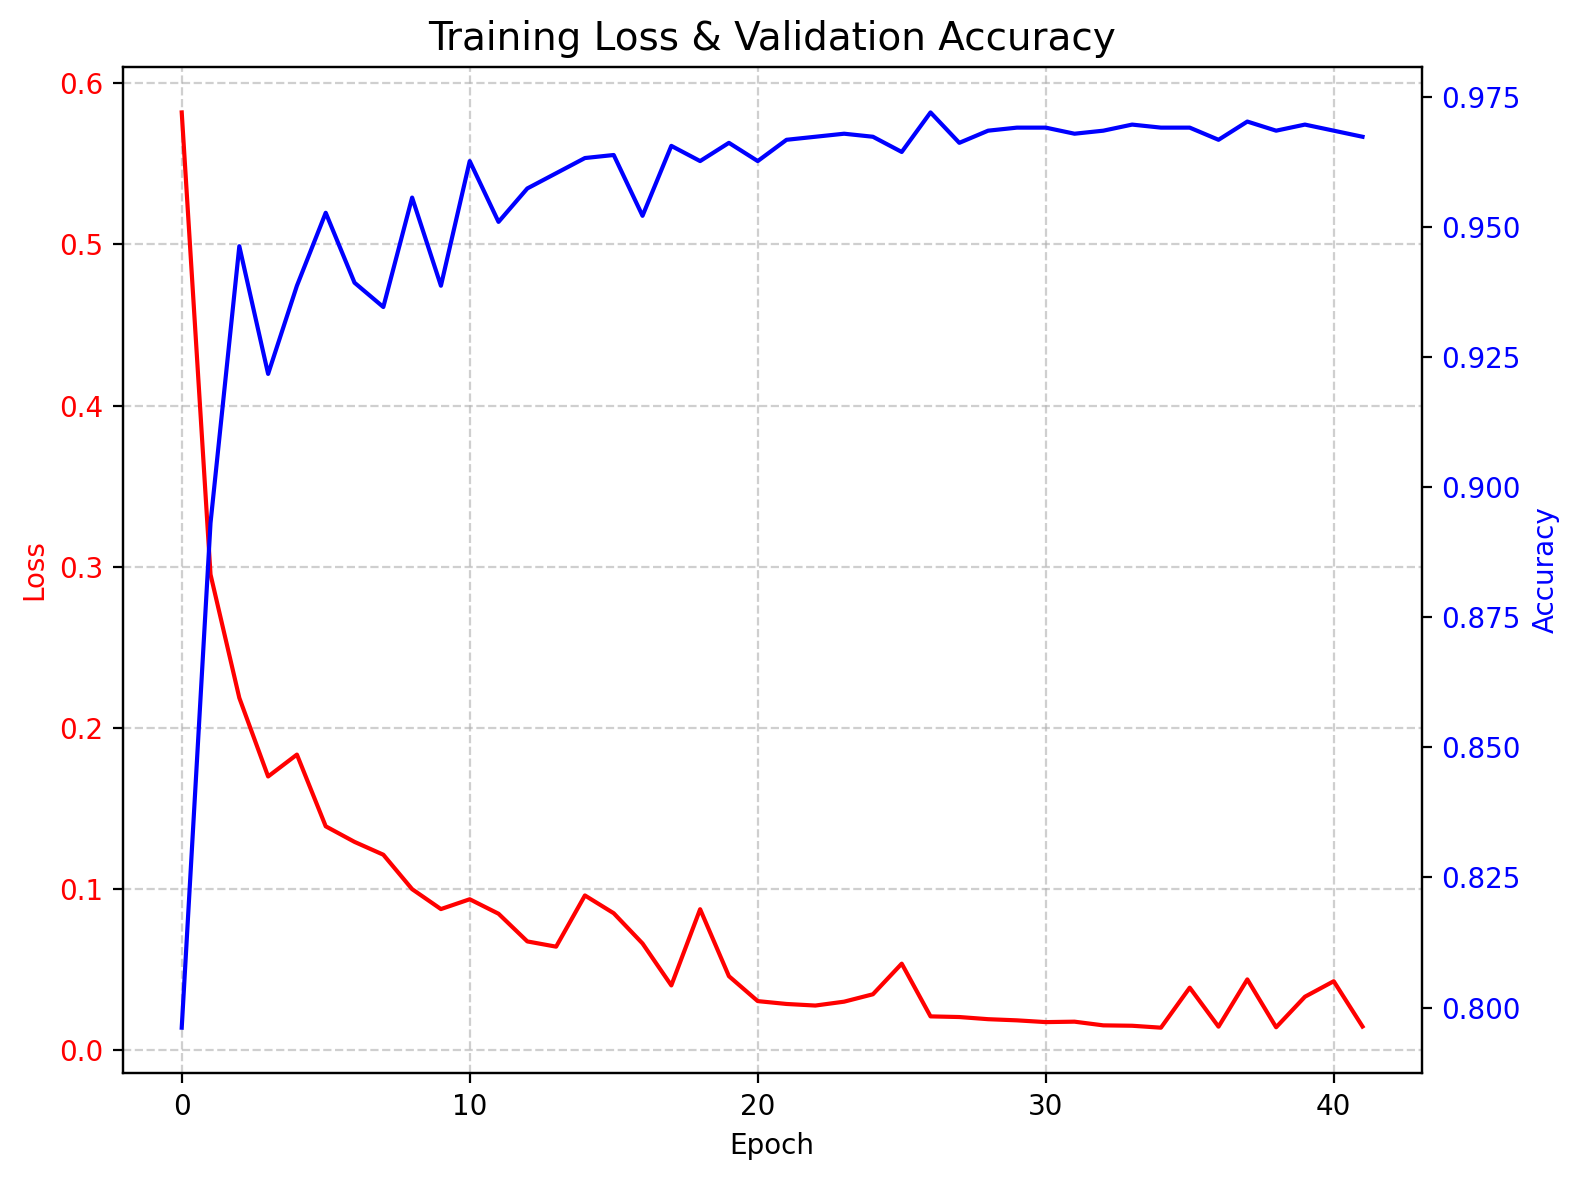
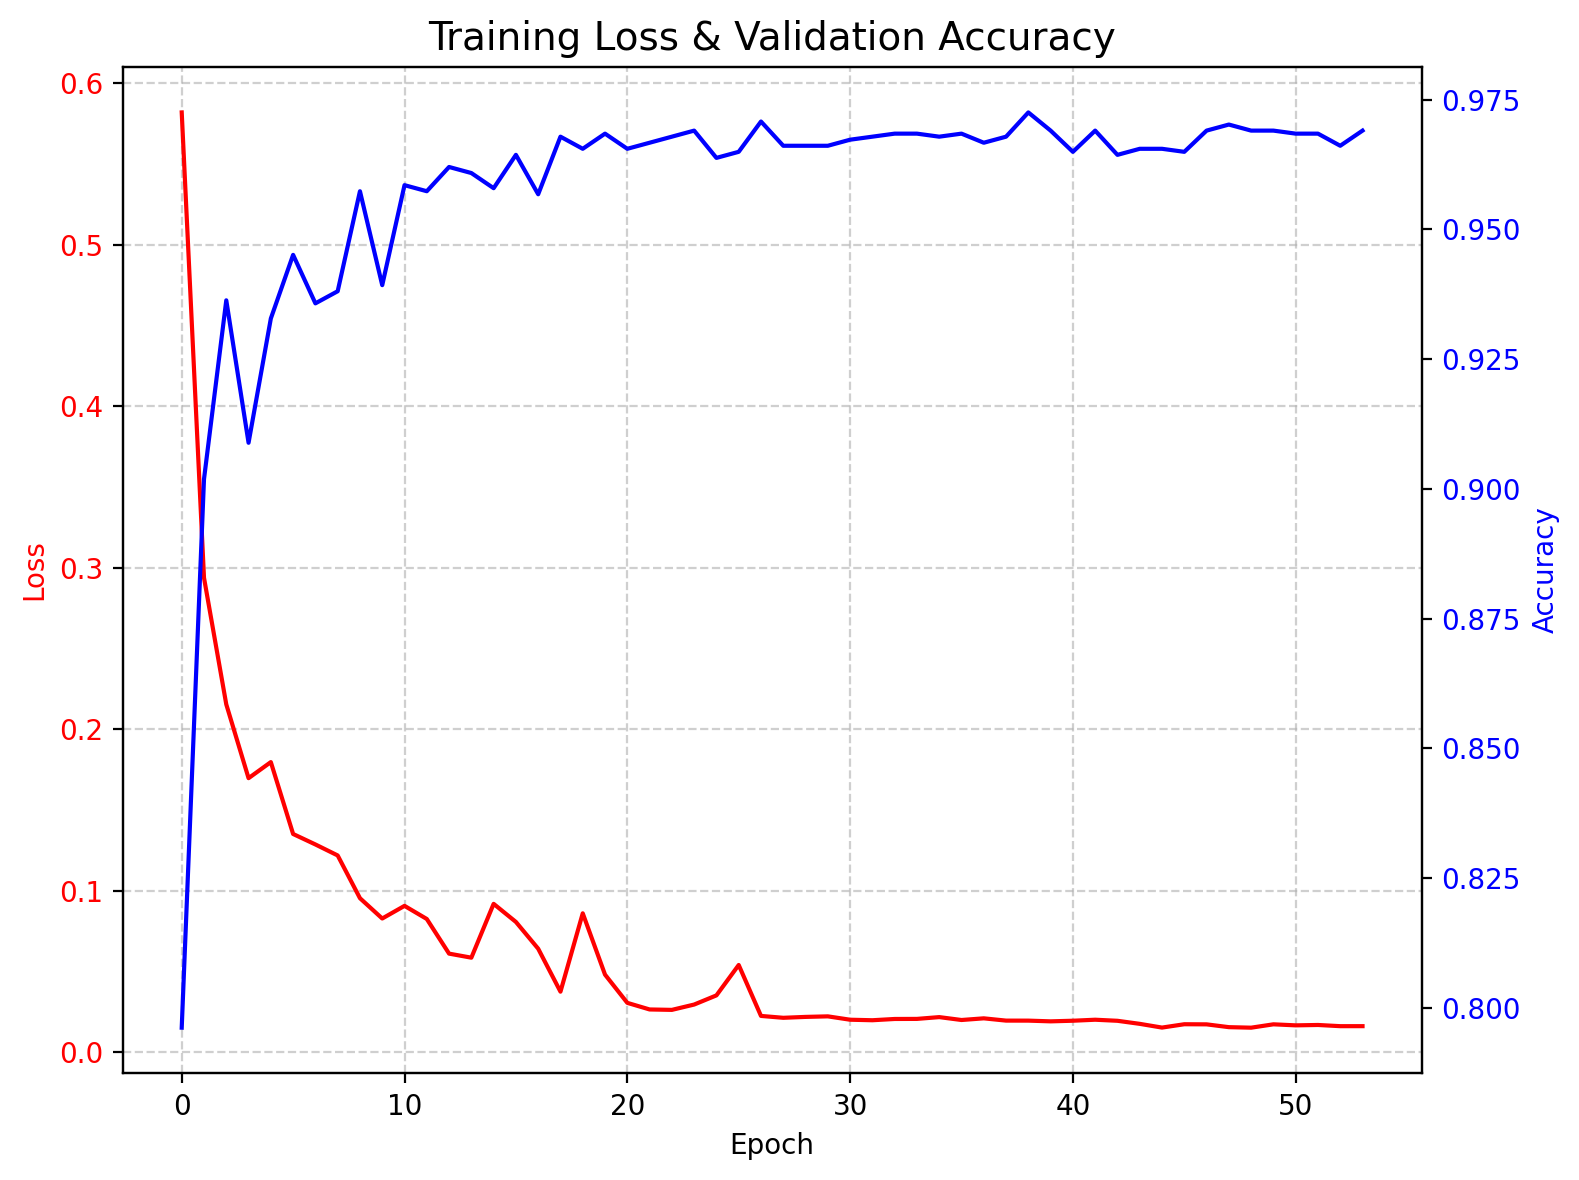
refactor: Improve project structure and pathing for robustness
This commit focuses on enhancing code organization and reliability:
- Implements strict modularity by separating core logic into dedicated scripts (e.g., , ) to enforce the single responsibility principle.
- Introduces robust path management ( detection) to ensure all outputs (logs, models, figures) are saved correctly, regardless of the execution environment (local or Docker).
- Updates README to reflect the new project structure and include initial analysis of training efficiency improvements.

diff --git a/scripts/models.py b/scripts/models.py
@@ -45,9 +45,19 @@ def get_model(device: torch.device) -> nn.Module:
        to avoid immediate downsampling.
     2. Remove the `maxpool` layer entirely to retain the 28x28 spatial resolution.
     3. Replace the final fully connected layer (`fc`) with one for 8 classes.
-    4. Interpolate and transfer weights from the old `conv1` to the new `conv1`.
+    4. Bicubic interpolation and transfer of pre-trained weights from the old `7x7`
+       kernel to the new `3x3` kernel.
 
-    Args:
+    Args:Arg,Type,Default,Description
+--epochs,int,60,Maximum number of training epochs.
+--batch_size,int,128,Batch size for data loaders.
+--lr,float,0.008,Initial learning rate for the SGD optimizer.
+--seed,int,42,"Random seed for reproducibility (influences PyTorch, NumPy, Python)."
+--mixup_alpha,float,0.002,α parameter for MixUp regularization. Set to 0 to disable MixUp.
+--patience,int,15,Early stopping patience (epochs without validation improvement).
+--momentum,float,0.9,Momentum factor for the SGD optimizer.
+--weight_decay,float,5e-4,Weight decay (L2 penalty) for the optimizer.
+--no_tta,flag,(disabled),Flag to disable Test-Time Augmentation (TTA) during final evaluation.
         device (torch.device): The device (CPU or CUDA) to move the model to.
 
     Returns:

diff --git a/README.md b/README.md
@@ -6,11 +6,9 @@
 
 
 
-**97.52% Test Accuracy • 0.9733 Macro F1 • Single pretrained ResNet-18 • 28×28 images**
+**97.31% Test Accuracy • 0.9704 Macro F1 • Single pretrained ResNet-18 • 28×28 images**
 
 This repository provides a reproducible training pipeline for the BloodMNIST (from MedMNIST v2) using an adapted pretrained ResNet-18 architecture. The goal is to demonstrate solid performance using a minimal configuration that adhere to modern PyTorch best practices.
-
-### Final Results (42 Epochs via Early Stopping, seed 42)
 
 The results reflect the latest successful training run (post-refactoring).
 
@@ -26,9 +24,9 @@ The results reflect the latest successful training run (post-refactoring).
 ### Final Results (60 epochs, seed 42)
 | Metric                  | Value     |
 |-------------------------|-----------|
-| Best Validation Accuracy| **97.20%** |
-| Test Accuracy (with TTA)| **97.52%** |
-| Test Macro F1 (with TTA)| **0.9733** |
+| Best Validation Accuracy| **97.25%** |
+| Test Accuracy (with TTA)| **97.31%** |
+| Test Macro F1 (with TTA)| **0.9704** |
 
 → Confusion matrix, training curves, sample predictions and Excel report are automatically saved.
 
@@ -40,19 +38,13 @@ I wanted to see how far a **single pretrained ResNet-18** could go on the tiny 2
 
 Spoiler: a carefully adapted ResNet-18 performs surprisingly well, even on 28×28 medical images.
 
-### Training Efficiency Analysis
-
-The training achieved peak validation performance at **Epoch 27** ($\text{Val Acc}=0.9720$) but was only terminated by early stopping at **Epoch 42**. This is due to the aggressive nature of the Cosine Annealing scheduler's tail combined with a generous `patience=15`.
-
-**Analysis:** Epochs 28 through 36 (while Cosine Annealing was still active) did not contribute to the final result.
-
-**Future Work:** The next step will focus on optimizing the training efficiency by anticipating the switch to the `ReduceLROnPlateau` scheduler (e.g., changing the switch point from 60% to 50% of max epochs) to reduce idle computation time.
----
-
 ### Key Features & Design Choices (Post-Refactoring)
 
-The code has been cleanly separated into modulare components (`data_handler.py`, `models.py`,
-`trainer.py`, `utils.py`) for enhaced clarity and maintainability.
+- **Modularity and Structure**: Code has been separated into clean, modular components (`scripts/`) to enforce single responsibility principle and decouple execution (`main.py`) from business logic.
+- **Robust Pathing**: Implemented dynamic `PROJECT_ROOT` detection in `utils.py` to ensure all outputs (models, logs, figures) are correctly saved relative to the project root, regardless of where the script is executed (local or Docker container).
+
+---
+
 
 - **ResNet-18 adapted for 28×28**:  
   – Initial 7 x7 convolution replaced with 3 x 3. 
@@ -81,12 +73,14 @@ They may look overkill, but they make the whole training pipeline safe to run un
 ```bash
 bloodmnist/
 │
-├── main.py                   # Main script that initiates training/evaluation
+├── main.py                   # Main execution entry point
 │
-├── data_handler.py           # Handles data download, Dataset, and DataLoader setup
-├── models.py                 # Defines the adapted ResNet-18 model
-├── trainer.py                # Contains the training logic (loop, MixUp, Early Stopping)
-├── utils.py                  # Configuration (Config), Logger, and general utilities
+├── scripts/                  # Core modules (data loading, models, trainer, utils)
+│   ├── data_handler.py       # Handles data download, Dataset, and DataLoader setup
+│   ├── models.py             # Defines the adapted ResNet-18 model
+│   ├── trainer.py            # Contains the training logic (loop, MixUp, Early Stopping)
+│   ├── utils.py              # Configuration (Config), Logger, and general utilities
+│   └── evaluation.py         # Reporting and final evaluation logic
 │
 ├── dataset/                  # BloodMNIST dataset files
 ├── logs/                     # File logs
@@ -133,6 +127,8 @@ You can fully configure training from the command line (via `main.py`).
 | --seed | int | 42 | Random seed for reproducibility (influences PyTorch, NumPy, Python). |
 | --mixup_alpha | float | 0.002 | $\alpha$ parameter for MixUp regularization. Set to 0 to disable MixUp. |
 | --patience | int | 15 | Early stopping patience (epochs without validation improvement). |
+| --momentum | float | 0.9 | Momentum factor for the SGD optimizer. |
+| --weight_decay | float | 5e-4 | Weight decay (L2 penalty) for the optimizer |
 | --no_tta | flag | (disabled) | Flag to disable Test-Time Augmentation (TTA) during final evaluation. |
 
 Examples:
@@ -160,7 +156,7 @@ python main.py --mixup_alpha 0
 Custom batch size & seed
 
 ```bash
-python main.py --barch_size 64 --seed 123
+python main.py --batch_size 64 --seed 123
 ```
 
 ### Reproducibility
